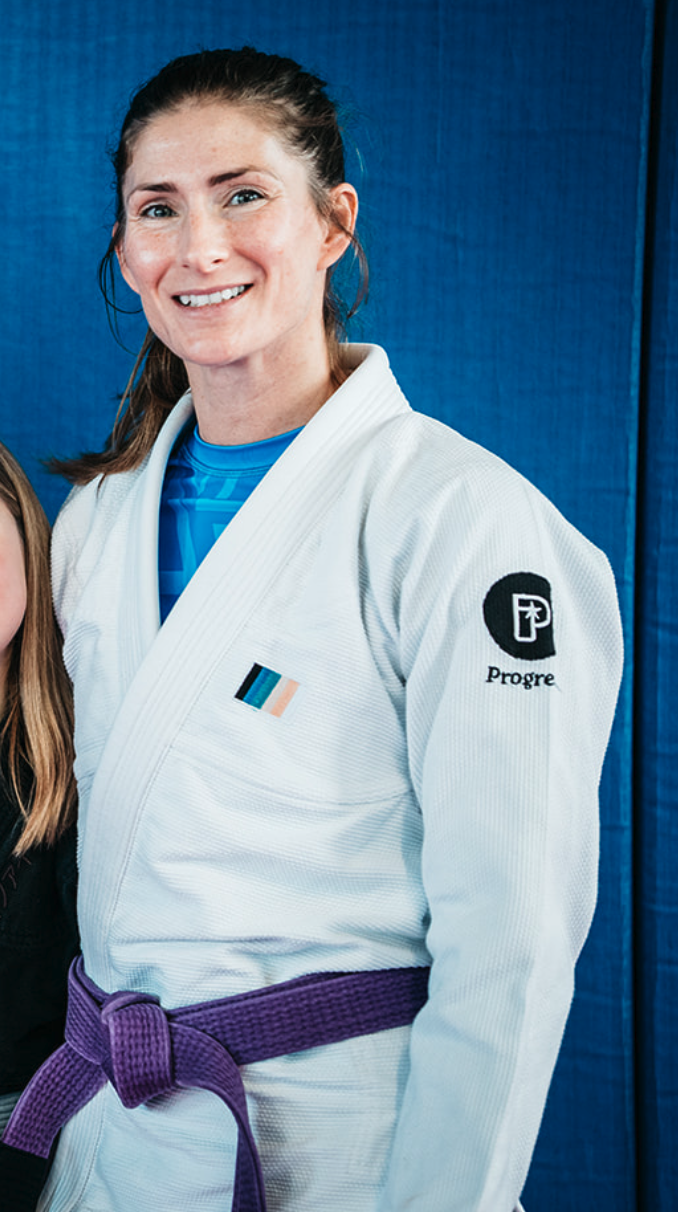
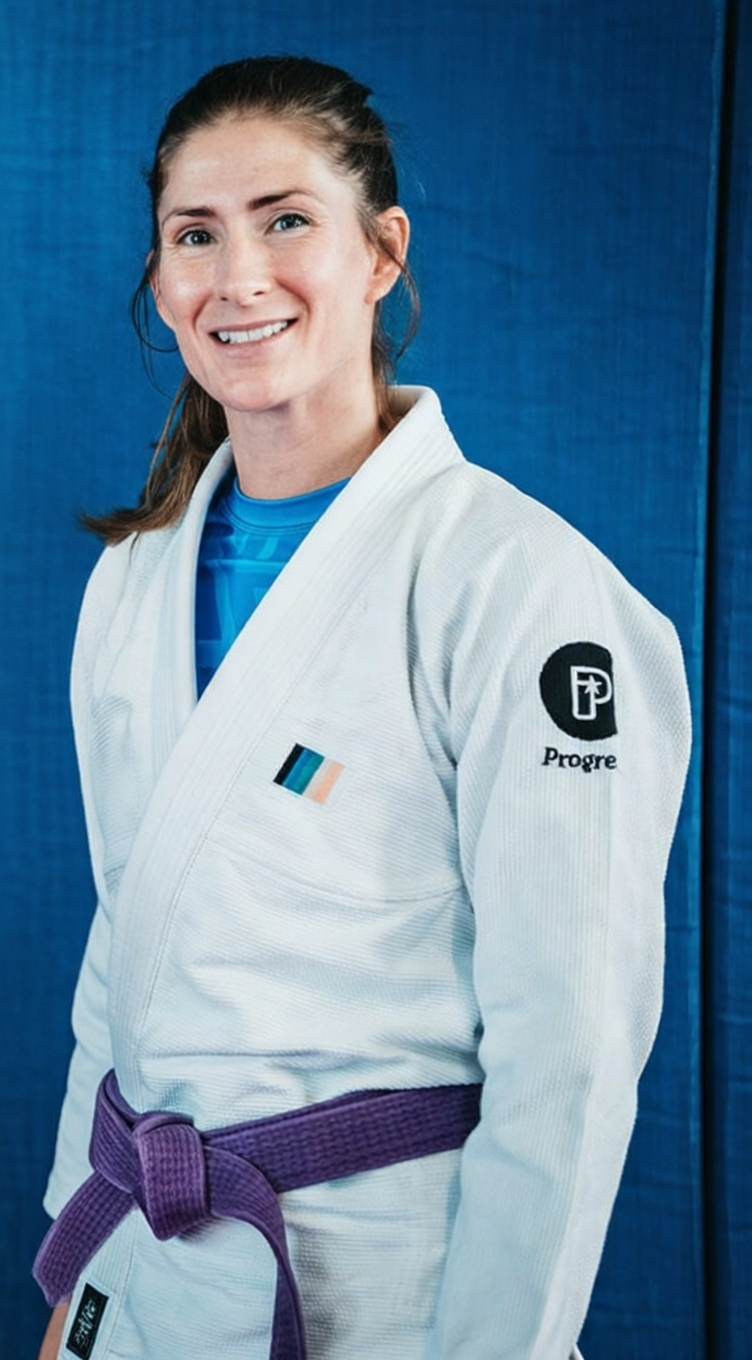
Updates to coaches info and images

diff --git a/src/lib/data/coaches.ts b/src/lib/data/coaches.ts
@@ -4,6 +4,8 @@ import michaelStevensonPhoto from '$lib/assets/coaches/michael_stevenson.png';
 import markKiddPhoto from '$lib/assets/coaches/mark_kidd.png';
 import benSmedleyPhoto from '$lib/assets/coaches/ben_smedley.png';
 import jamesLewisPhoto from '$lib/assets/coaches/james_lewis.png';
+import emmaPhoto from '$lib/assets/coaches/emma.png';
+import danPhoto from '$lib/assets/coaches/dan.png';
 
 export type instructor = {
   id: string;
@@ -23,9 +25,9 @@ export const instructors: instructor[] = [
     beltRank: '3rd Degree Black Belt',
     role: 'Head Instructor / Owner',
     shortBio:
-      'Head instructor leading fundamentals and long-term student development.',
+      'Head instructor with over 25 years of BJJ experience, leading fundamentals and long-term development.',
     fullBio:
-      'Mikey leads the instruction at Long Eaton BJJ, with a strong focus on technical detail, clear progression, and high standards on and off the mat.',
+      'Mikey has been training BJJ for over 25 years and leads the instruction at Long Eaton BJJ, with a strong focus on technical detail, clear progression and high standards on and off the mat. He and Sian are married, and their two daughters also train.',
     photo: mikeyDeanPhoto
   },
 
@@ -35,9 +37,9 @@ export const instructors: instructor[] = [
     beltRank: '2nd Degree Black Belt',
     role: 'Instructor',
     shortBio:
-      'Supports adult and developing students with structured, practical instruction.',
+      'Supports adult and developing students with structured, practical instruction and active competition experience.',
     fullBio:
-      'Michael brings a technical and supportive approach to instruction, helping students sharpen fundamentals while building confidence in live training.',
+      'Michael brings a technical and supportive approach to instruction, helping students sharpen fundamentals while building confidence in live training. He competes regularly, and his daughter also trains at the academy.',
     photo: michaelStevensonPhoto,
     photoPosition: 'center top'
   },
@@ -48,9 +50,9 @@ export const instructors: instructor[] = [
     beltRank: '2nd Degree Black Belt',
     role: 'Instructor',
     shortBio:
-      'Experienced black belt supporting technical development across classes.',
+      'Experienced black belt coaching BJJ and FrostFit classes, and founder of the kids program.',
     fullBio:
-      'Mark brings years of grappling experience and helps students sharpen core jiu-jitsu fundamentals with clear, practical instruction.',
+      'Mark brings years of grappling experience and can be found coaching FrostFit classes as well as BJJ sessions across the timetable. He also started the kids program and continues to support its development.',
     photo: markKiddPhoto,
     photoPosition: 'center top'
   },
@@ -60,9 +62,9 @@ export const instructors: instructor[] = [
     beltRank: '2nd Degree Black Belt',
     role: 'Instructor',
     shortBio:
-      'Ben focuses on our juniors team, building confidence and technique in young athletes.',
+      'Ben\'s main focus is the juniors team, and he also coaches FrostFit and adult classes.',
     fullBio:
-      'Ben leads our juniors team, helping young athletes develop strong fundamentals, confidence, and a love for the sport in a supportive environment.',
+      'Ben\'s main love is teaching juniors, where he helps young athletes build strong fundamentals, confidence and a love for the sport. He also often teaches FrostFit and adult classes.',
     photo: benSmedleyPhoto,
     photoPosition: 'right top'
   },
@@ -72,9 +74,9 @@ export const instructors: instructor[] = [
     beltRank: '1st Degree Black Belt',
     role: 'Instructor',
     shortBio:
-      'Supports the junior and teens program with practical instruction focused on fundamentals and live application.',
+      'Known as the quiet giant of the gym, supporting juniors and teens with practical instruction.',
     fullBio:
-      'James brings a practical and technical instruction style, helping students develop strong fundamentals and apply them effectively in live training.',
+      'James brings a practical and technical instruction style, helping students develop strong fundamentals and apply them effectively in live training. He and his son both train at the academy, and he is known as the quiet giant of the gym.',
     photo: jamesLewisPhoto,
     photoPosition: 'center top'
   },
@@ -86,8 +88,32 @@ export const instructors: instructor[] = [
     shortBio:
       'Teaches juniors and ladies classes with clear, supportive instruction.',
     fullBio:
-      'Sian teaches juniors and ladies classes, helping students build strong fundamentals, confidence, and safe training habits in every session.',
+      'Sian teaches juniors and ladies classes, helping students build strong fundamentals, confidence and safe training habits in every session. She and Mikey are married, and their two daughters also train.',
     photo: sianDeanPhoto,
+    photoPosition: 'center top'
+  },
+  {
+    id: 'emma',
+    name: 'Emma',
+    beltRank: 'Brown Belt',
+    role: 'Instructor',
+    shortBio:
+      'Highest graded female instructor and founder of the ladies program.',
+    fullBio:
+      'Emma is a brown belt who started our ladies program and is the highest graded female at the academy. She teaches juniors, teens and ladies classes, helping students build confidence, technical fundamentals and safe training habits in every session.',
+    photo: emmaPhoto,
+    photoPosition: 'center top'
+  },
+  {
+    id: 'dan',
+    name: 'Dan',
+    beltRank: 'Black Belt',
+    role: 'Instructor',
+    shortBio:
+      'Black belt instructor who is usually leading the No-Gi classes.',
+    fullBio:
+      'Dan is a black belt and can usually be found running the No-Gi classes, helping students develop timing, pressure and practical grappling skills for live training.',
+    photo: danPhoto,
     photoPosition: 'center top'
   }
 ]
